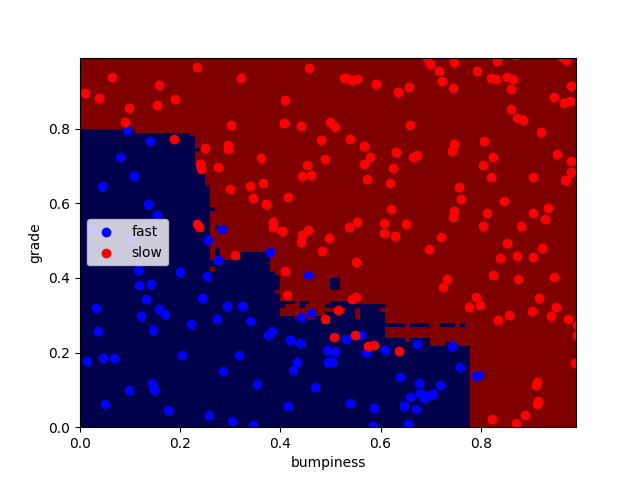
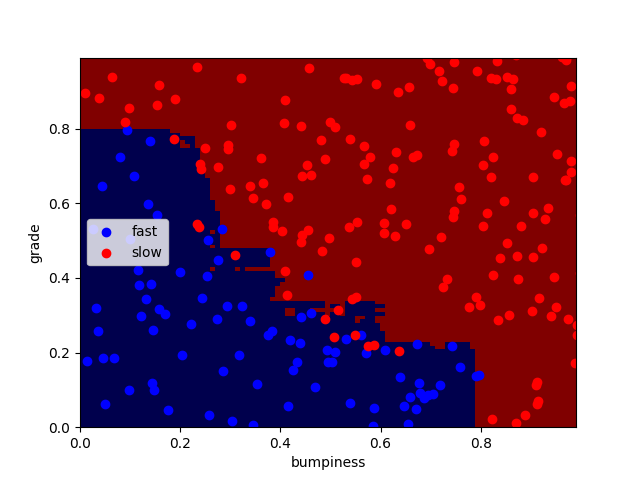
updated for lesson5-8.

diff --git a/choose_your_own/your_algorithm.py b/choose_your_own/your_algorithm.py
@@ -34,7 +34,12 @@ import sys
 from time import time
 from sklearn.metrics import accuracy_score
 import numpy as np
+from pprint import pprint, pformat
+import datetime
+now = datetime.datetime.now()
+print(now.strftime("%Y%m%d_%H%M_%S"))
 
+log_file = open('log_{0}.txt'.format(now.strftime("%Y%m%d_%H%M_%S")), 'w')
 def predict_with_nearest_neighbors():
 	from sklearn.neighbors.nearest_centroid import NearestCentroid
 	clf = NearestCentroid()
@@ -52,23 +57,34 @@ def predict_with_nearest_neighbors():
 
 def predict_with_random_forest():
 	from sklearn.ensemble import RandomForestClassifier
-	clf = RandomForestClassifier()
+	#clf = RandomForestClassifier()
+	# No2
+	clf = RandomForestClassifier(
+				n_estimators=100, 
+				#criterion="entropy",
+				)
 	t0 = time()
-	#clf = RandomForestClassifier(max_depth=2, random_state=0)
 	clf.fit(features_train, labels_train)
 	print("training time:{0}s(random forest)".format(round(time() - t0, 3)))
+	log_file.write("training time:{0}s(random forest)".format(round(time() - t0, 3)))
 	# predict
 	predict = clf.predict(features_test)
 	# accuracy
 	accuracy = accuracy_score(labels_test, predict)
-	file_name = "ac{0:.3f}_rf_01.png".format(accuracy)
+	file_name = "ac{0:.3f}_rf_02.png".format(accuracy)
 	print("accuracy:{0:.3f}(random forest)".format(accuracy))
+	log_file.write("accuracy:{0:.3f}(random forest)".format(accuracy))
+	log_file.write(pformat(clf))
 	show_result(clf, file_name)
 
 
 def predict_with_ada_boost():
 	from sklearn.ensemble import AdaBoostClassifier
 	clf = AdaBoostClassifier()
+	clf = AdaBoostClassifier(
+				n_estimators=500
+
+				)
 	t0 = time()
 	clf.fit(features_train, labels_train)
 	print("training time:{0}s(ada boost)".format(round(time() - t0, 3)))
@@ -76,7 +92,7 @@ def predict_with_ada_boost():
 	predict = clf.predict(features_test)
 	# accuracy
 	accuracy = accuracy_score(labels_test, predict)
-	file_name = "ac{0:.3f}_ab_01.png".format(accuracy)
+	file_name = "ac{0:.3f}_ab_02.png".format(accuracy)
 	print("accuracy:{0:.3f}(ada boost)".format(accuracy))
 	show_result(clf, file_name)
 
@@ -144,3 +160,4 @@ predict_with_ada_boost()
 predict_with_decision_tree()
 predict_with_svm()
 predict_with_naive_bayes()
+log_file.close()
